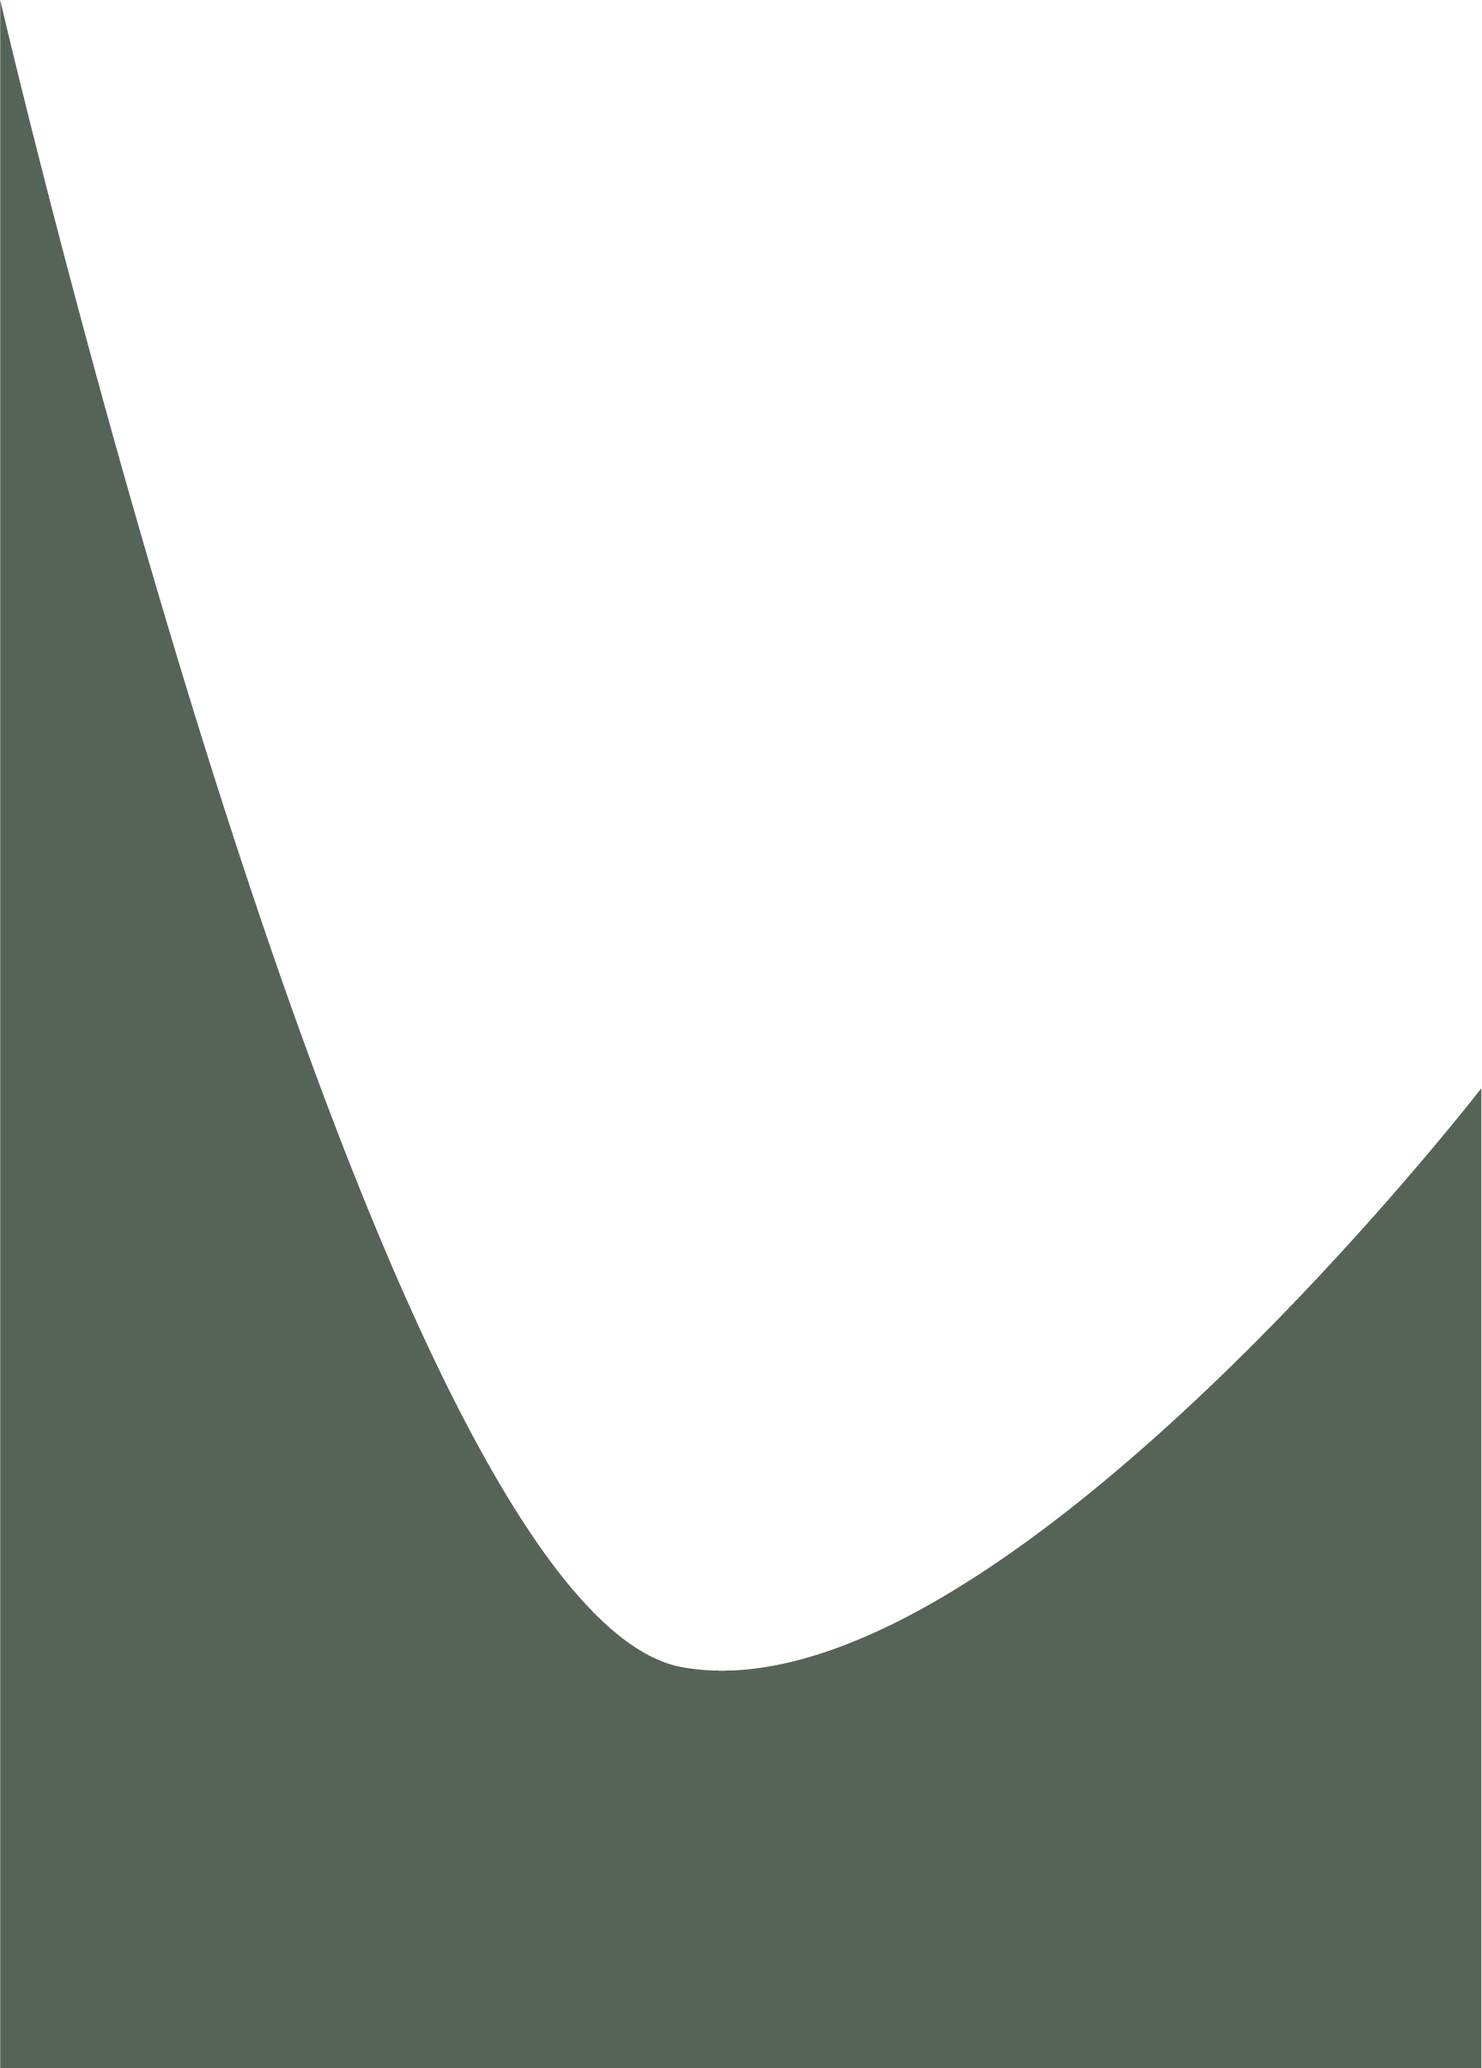
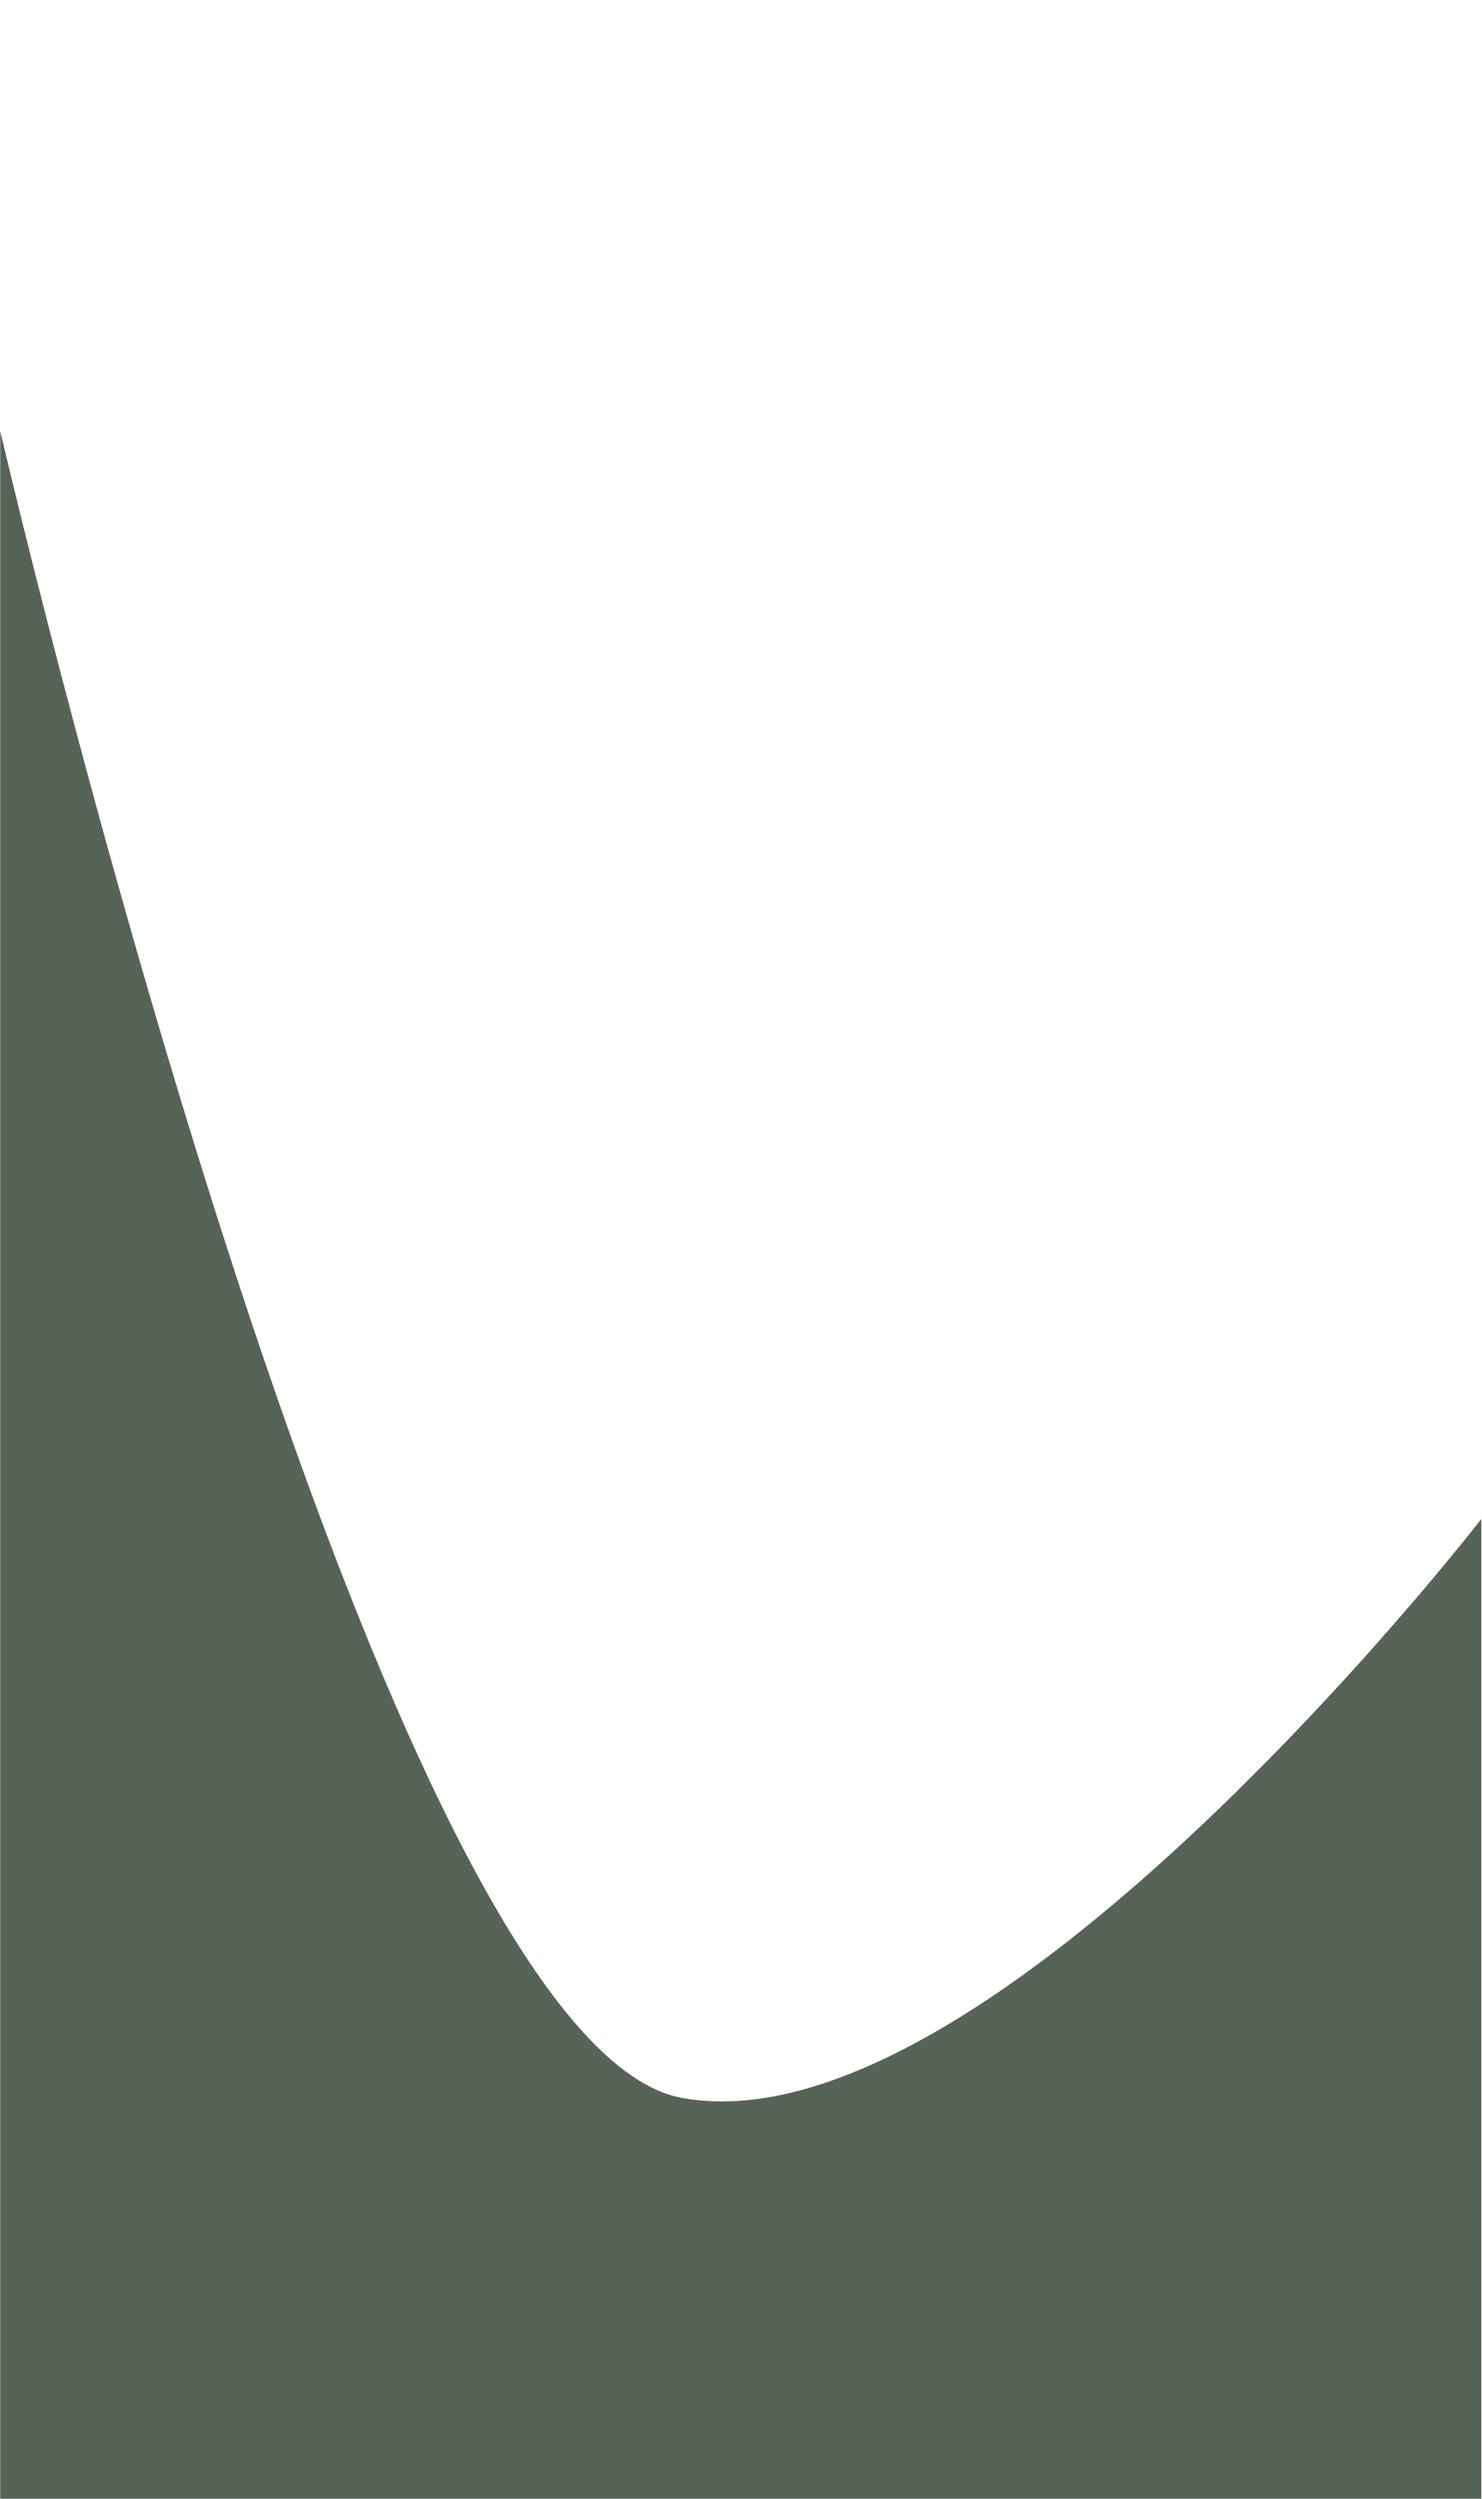
LandingPage Solve Problem

Changed region(s): [[0.0, 0.0, 1.0, 0.8406], [0.0, 0.9963, 1.0, 1.0]]

diff --git a/lib/Screens/LandingPage.dart b/lib/Screens/LandingPage.dart
@@ -30,42 +30,25 @@ class _LandingPageState extends State<LandingPage> {
         },
         child: Scaffold(
           backgroundColor: Color(0xFF566357),
-          body: SafeArea(
-              child: Column(
+          body: Column(
+            mainAxisAlignment: MainAxisAlignment.end,
             children: [
-              Flexible(
-                child: Hero(
-                  tag: 'logo',
-                  child: Container(
-                    height: MediaQuery.of(context).size.height * .7,
-                    child: Image.asset('Images/Logo.png'),
+              Stack(
+                children: [
+                  Center(
+                    child: Container(
+                        width: 250, child: Image.asset('Images/Logo.png')),
                   ),
-                ),
+                  Stack(
+                    children: [
+                      Image.asset('Images/LandingPage2.png'),
+                      Image.asset('Images/LandingPage1.png'),
+                    ],
+                  )
+                ],
               ),
-              Center(
-                child: Stack(
-                  children: [
-                    Stack(
-                      children: [
-                        Container(
-                            width: 200,
-                            height: 200,
-                            child: Image.asset('Images/LandingPage1.png')),
-                        Container(
-                            width: 200,
-                            height: 200,
-                            child: Image.asset('Images/LandingPage2.png')),
-                      ],
-                    ),
-                    Container(
-                        width: 200,
-                        height: 200,
-                        child: Image.asset('Images/LandingPage3.png')),
-                  ],
-                ),
-              )
             ],
-          )),
+          ),
         ));
   }
 }
